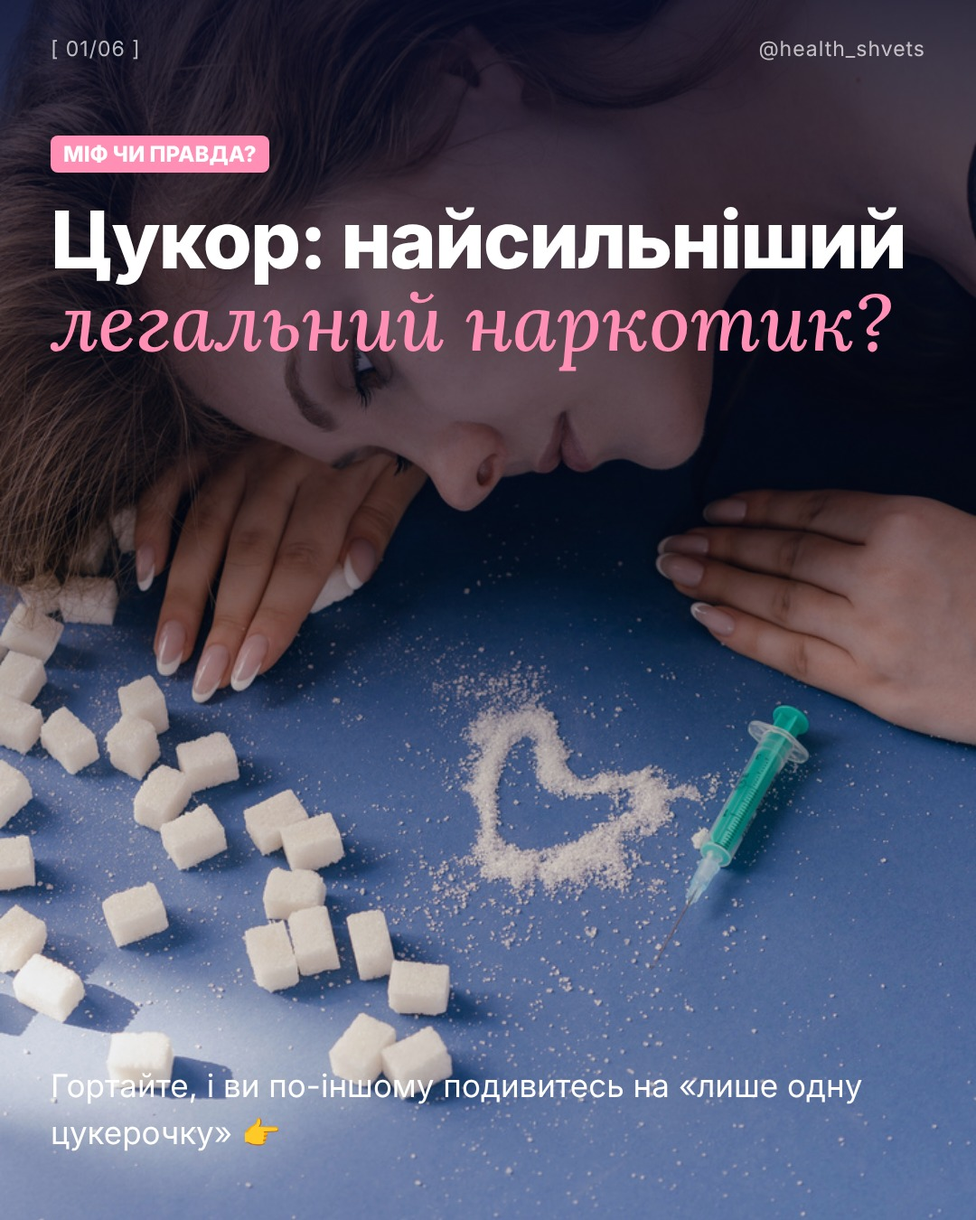
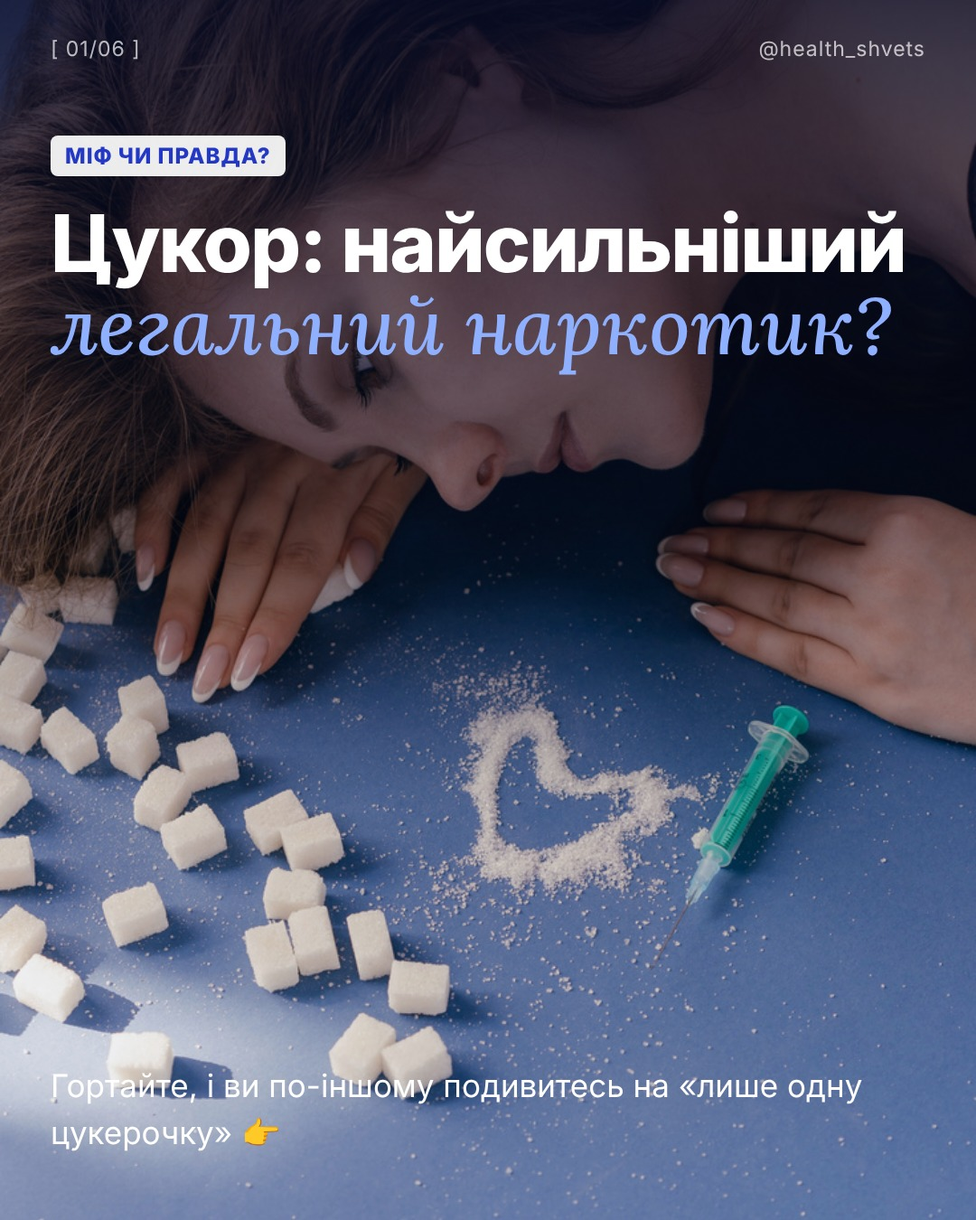
Січневий інтенсив: 350 до 30.11, 499 у грудні, 1748 з січня, без броні; каруселі грудня в кольорах Валентини
Claude-Session: https://claude.ai/code/session_01VzrYNc44ZAszRsGLiFGcPN

diff --git a/jan.py b/jan.py
@@ -22,7 +22,12 @@ import db
 
 log = logging.getLogger("jan")
 TZ = ZoneInfo("Europe/Kyiv")
-BOOK, EARLY, FULL, SEATS = 350, 750, C.INTENSIVE_AMOUNT, 20
+BOOK, EARLY, FULL, SEATS = 350, 750, C.INTENSIVE_AMOUNT, 20  # старі (бронь/750/1444), лишились для старих станів
+# 27.11 (Валентина): ціна участі в січневому інтенсиві без доплат: до 30.11 350, 1-31.12 499, з січня 1748
+P_NOV, P_DEC, P_AFTER = 350, 499, 1748
+NOV_END = datetime(2026, 11, 30, 23, 59, 59, tzinfo=TZ)
+DEC_END = datetime(2026, 12, 31, 23, 59, 59, tzinfo=TZ)
+PRICE_LINE = "Вартість участі: <code>350 грн</code> до 30 листопада, <code>499 грн</code> з 1 по 31 грудня <i>(з січня 1748 грн)</i>"
 ADV_BOOK = 159  # 26.11 (Валентина через Тетяну): бронь за спецціною для адвенту «Здорові свята», kind jba
 CONS_UNTIL = datetime(2026, 12, 31, 23, 59, tzinfo=TZ)  # 27.11: знижка 50% на все до 31.12 (Валентина)
 _BG = set()
@@ -30,10 +35,9 @@ _BG = set()
 # ---------- тексти ----------
 BTN_CONS = "📅 ЗАПИСАТИСЬ НА КОНСУЛЬТАЦІЮ"
 BTN_JAN = "🧠 Група на січень"
-BTN_BOOK = f"Забронювати місце: {BOOK} грн"
+BTN_BOOK = "Оплатити участь"
 CLOSED = ("<b>Увага: набір учасників інтенсиву на листопад закрито</b> ❗\n\n"
-          "Наразі йде <b>запис у групу на січень</b>. Вартість бронювання <code>350 грн</code>. "
-          "Повна вартість <b>для перших 20 учасників</b> <code>750 грн</code> 🔥")
+          "Наразі йде <b>запис у групу на січень</b>. " + PRICE_LINE + " 🔥")
 CONS_LINE = ("Якщо вам уже зараз потрібна допомога, можете записатись на <b>індивідуальну консультацію Валентини "
              "з 50% знижкою</b> <i>(до 31 грудня)</i> ‼")
 ANNOUNCE = CLOSED + "\n\n" + CONS_LINE
@@ -42,13 +46,10 @@ JAN_TERMS = ("<b>ГРУПА НА СІЧЕНЬ</b>\n\n"
              "‼ Спеціальний <b>Telegram-канал</b> із відео, гайдами, рецептами <b>з доступом назавжди</b>\n"
              "✓ Постійно діючий чат підтримки з авторкою та тренерами\n"
              "✓ Повноцінний курс + мініконсультації + супровід\n\n"
-             "Бронювання місця: <code>350 грн</code>\n"
-             "Повна вартість <b>для перших 20 учасників</b>: <code>750 грн</code> 🔥 <i>(далі 1444 грн)</i>")
-URGENT = "\n\n‼ <b>Ціна 750 грн тільки для перших 20 учасників.</b> <i>Кількість місць обмежена</i> ❗"
-PAY_CHOICE = ("<b>Як вам зручніше?</b>\n\n"
-              "<b>Забронювати місце:</b> <code>350 грн</code> зараз, решту доплатите ближче до старту\n"
-              "<b>Оплатити повністю:</b> <code>{full} грн</code>{note}\n\n"
-              "<i>У будь-якому разі ваше місце в групі на січень закріплюється одразу після оплати.</i>")
+             + PRICE_LINE)
+URGENT = "\n\n‼ <b>Ціна росте:</b> <i>350 грн тільки до 30 листопада, у грудні 499, з січня 1748</i> ❗"
+PAY_CHOICE = ("<b>Участь у групі на січень зараз коштує</b> <code>{full} грн</code> <i>(з січня 1748 грн)</i>. Без жодних доплат.\n\n"
+              "<i>Ваше місце закріплюється одразу після оплати.</i>")
 BOOKED = ("✅ <b>Місце в групі на січень заброньовано!</b> Дякую ❤\n\n"
           "Ваша повна вартість <code>{total} грн</code>, тобто доплатити лишається <code>{rest} грн</code>. "
           "Я нагадаю ближче до старту, а можна доплатити й зараз кнопкою нижче.\n\n"
@@ -127,13 +128,17 @@ def early():
     return taken() < SEATS
 
 
+def price_now():
+    n = now()
+    return P_NOV if n <= NOV_END else P_DEC if n <= DEC_END else P_AFTER
+
+
 def full_price():
-    return EARLY if early() else FULL
+    return price_now()
 
 
 def seats_line():
-    left = SEATS - taken()
-    return f"\n\n🔥 За ціною 750 грн лишилось місць: <b>{left}</b> з {SEATS}" if left > 0 else ""
+    return ""  # 27.11: місць за 750 більше немає, ціна залежить від дати
 
 
 def start_line():
@@ -149,9 +154,8 @@ def kb_cons_jan(extra=None):
 # ---------- показ ----------
 async def show_jan(ctx, chat, kb_back):
     __import__("crm").log_ev(chat, "jan")
-    await ctx.bot.send_message(chat, CLOSED + "\n\n" + start_line() + JAN_TERMS + seats_line(), parse_mode="HTML",
-                               reply_markup=M([[B(BTN_BOOK, callback_data="jn:book")],
-                                               [B(f"Оплатити повністю: {full_price()} грн", callback_data="jn:full")],
+    await ctx.bot.send_message(chat, CLOSED.split(" Вартість участі")[0] + "\n\n" + start_line() + JAN_TERMS, parse_mode="HTML",
+                               reply_markup=M([[B(f"Оплатити участь: {price_now()} грн", callback_data="jn:full")],
                                                [B(BTN_CONS, callback_data="cons")]] + kb_back))
 
 
@@ -167,17 +171,17 @@ async def show_cons(ctx, chat, kb_back):
 
 
 async def pay_choice(ctx, chat, kb_back):
-    fp = full_price()
-    note = " <i>(ціна для перших 20 учасників)</i>" if fp == EARLY else ""
-    await ctx.bot.send_message(chat, PAY_CHOICE.format(full=fp, note=note) + seats_line(), parse_mode="HTML",
-                               reply_markup=M([[B(BTN_BOOK, callback_data="jn:book")],
-                                               [B(f"Оплатити повністю: {fp} грн", callback_data="jn:full")],
+    fp = price_now()
+    await ctx.bot.send_message(chat, PAY_CHOICE.format(full=fp), parse_mode="HTML",
+                               reply_markup=M([[B(f"Оплатити участь: {fp} грн", callback_data="jn:full")],
                                                [B(BTN_CONS, callback_data="cons")]] + kb_back))
 
 
 # ---------- кнопки ----------
 async def on_cb(ctx, u, chat, data, make_invoice, notify_admins, who):
     st = db.flag_get(f"jan:{u.id}") or ""
+    if data == "jn:book":  # 27.11: броні більше немає, стара кнопка = оплата участі
+        data = "jn:full"
     if data == "jn:book":
         if st:
             await ctx.bot.send_message(chat, "Ваше місце в групі на січень уже закріплене ❤")
@@ -188,21 +192,23 @@ async def on_cb(ctx, u, chat, data, make_invoice, notify_admins, who):
         if st:
             await ctx.bot.send_message(chat, "Ваше місце в групі на січень уже закріплене ❤")
             return
-        await make_invoice(ctx, u, chat, "jba", ADV_BOOK, "Бронювання місця в групі на січень «Здоровий кишківник» (ціна адвенту)",
-                           "Ось посилання на бронювання за ціною адвенту 👇 Після оплати поверніться в цей чат, протягом хвилини я все підтверджу ❤")
+        await make_invoice(ctx, u, chat, "jba", ADV_BOOK, "Участь у групі на січень «Здоровий кишківник» (ціна адвенту)",
+                           "Ось посилання на оплату участі за ціною адвенту 👇 Після оплати поверніться в цей чат, протягом хвилини я все підтверджу ❤")
     elif data == "jn:full":
         if st == "f":
             await ctx.bot.send_message(chat, "Групу на січень у вас уже оплачено повністю ❤")
             return
-        if st.startswith("b"):
-            await _rest(ctx, u, chat, st, make_invoice)
+        if st.startswith("b"):  # 27.11: хто вже забронював, тепер учасник без доплати
+            db.flag_set(f"jan:{u.id}", "f")
+            await ctx.bot.send_message(chat, "Ваше місце в групі на січень уже оплачене, доплачувати нічого не потрібно ❤")
             return
         fp = full_price()
         await make_invoice(ctx, u, chat, f"jf{fp}", fp, "Група на січень «Здоровий кишківник»",
                            "Ось посилання на оплату 👇 Після оплати поверніться в цей чат, протягом хвилини я все підтверджу ❤")
     elif data == "jn:rest":
         if st.startswith("b"):
-            await _rest(ctx, u, chat, st, make_invoice)
+            db.flag_set(f"jan:{u.id}", "f")
+            await ctx.bot.send_message(chat, "Ваше місце в групі на січень уже оплачене, доплачувати нічого не потрібно ❤")
     elif data == "jn:cons":
         amt = cons_amount()
         if not amt:
@@ -229,6 +235,13 @@ async def on_paid(ctx, uid, kind, amount, cur, notify_admins):
     u = db.get_user(uid)
     name = (u["name"] if u else "") + (f" @{u['username']}" if u and u["username"] else "")
     crm = __import__("crm")
+    if kind == "jba":  # 27.11: участь за ціною адвенту 159, без доплати
+        db.flag_set(f"jan:{uid}", "f")
+        db.set_field(uid, "course_paid", 1)
+        crm.log_ev(uid, "paid", f"{amount}|січень (адвент)")
+        await _send(ctx, uid, PAID_FULL)
+        await notify_admins(ctx, f"✅ Група на січень за ціною адвенту: {amount} {cur}. {name} (ID {uid}).")
+        return True
     if kind in ("jb", "jba"):
         total = EARLY if early() else FULL
         book = ADV_BOOK if kind == "jba" else BOOK
@@ -247,7 +260,7 @@ async def on_paid(ctx, uid, kind, amount, cur, notify_admins):
         crm.log_ev(uid, "paid", f"{amount}|{'доплата' if kind == 'jr' else 'повністю'} січень")
         await _send(ctx, uid, PAID_FULL)
         await notify_admins(ctx, f"✅ Група на січень {'доплата' if kind == 'jr' else 'повністю'}: {amount} {cur}. {name} (ID {uid}). "
-                                 f"Зайнято місць: {taken()} з {SEATS} за 750.")
+                                 f"Усього учасників: {taken()}.")
         return True
     if kind == "cons":
         db.flag_set(f"cons:{uid}", "paid")

diff --git a/tools/posts2/plan2.py b/tools/posts2/plan2.py
@@ -22,9 +22,9 @@ def img(path):
 
 THEMES = {
     # синій Валентини (стиль «як в Ольги»: фото на весь слайд, курсив, плашки)
-    "blue": dict(bg="#f4f6ff", ink="#121a3d", acc="#2338c4", acc2="#ff8fb4", soft="#e4e8fb", dark="#141c5c"),
+    "blue": dict(bg="#f4f6ff", ink="#121a3d", acc="#2338c4", acc2="#8fb0ff", soft="#e4e8fb", dark="#141c5c"),
     # зелений адвенту
-    "green": dict(bg="#f2f8f3", ink="#0f3d2e", acc="#1d6b47", acc2="#e8457f", soft="#e3f3e8", dark="#0f3d2e"),
+    "green": dict(bg="#f2f8f3", ink="#0f3d2e", acc="#1d6b47", acc2="#8fdcb0", soft="#e3f3e8", dark="#0f3d2e"),
 }
 
 
@@ -42,9 +42,9 @@ h1{{font-size:88px;font-weight:800;line-height:1.02;letter-spacing:-2px}}
 h2{{font-size:64px;font-weight:800;line-height:1.06;letter-spacing:-1.2px}}
 i.s{{font-family:Lora;font-style:italic;font-weight:500;letter-spacing:0}}
 .ac{{color:{t['acc']}}} .ac2{{color:{t['acc2']}}}
-.hl{{background:linear-gradient(transparent 58%,{t['acc2']}88 58%);padding:0 4px}}
+.hl{{background:linear-gradient(transparent 58%,{t['acc']}33 58%);padding:0 4px}}
 .pl{{display:inline-block;background:{t['acc']};color:#fff;font-weight:800;font-size:24px;letter-spacing:1.5px;padding:9px 18px;border-radius:10px}}
-.pl2{{display:inline-block;background:{t['acc2']};color:#fff;font-weight:800;font-size:24px;padding:6px 14px;border-radius:8px}}
+.pl2{{display:inline-block;background:rgba(255,255,255,.92);color:{t['acc']};font-weight:800;font-size:24px;letter-spacing:1px;padding:8px 16px;border-radius:8px}}
 .p{{font-size:35px;line-height:1.48}}
 .p b{{font-weight:800}}
 .p+.p{{margin-top:22px}}
@@ -53,7 +53,12 @@ i.s{{font-family:Lora;font-style:italic;font-weight:500;letter-spacing:0}}
 .ph{{position:absolute;border-radius:30px;overflow:hidden;box-shadow:0 20px 50px rgba(15,20,60,.25)}}
 .ph img{{width:100%;height:100%;object-fit:cover}}
 .cta{{background:{t['dark']};color:#fff}}
-.word{{display:inline-block;background:#fff;color:{t['acc2']};font-weight:900;font-size:96px;letter-spacing:3px;padding:12px 48px;border-radius:24px}}
+.wq{{font-family:Lora;font-style:italic;font-weight:600;font-size:92px;line-height:1}}
+.wq u{{text-decoration:none;border-bottom:4px solid {t['acc2']};padding-bottom:6px}}
+.wf{{display:inline-block;position:relative;background:{t['acc2']};color:{t['dark']};font-weight:900;font-size:56px;letter-spacing:4px;
+  padding:14px 64px 14px 36px;clip-path:polygon(0 0,100% 0,88% 50%,100% 100%,0 100%)}}
+.wg{{font-weight:900;font-size:70px;letter-spacing:3px;text-shadow:0 0 28px {t['acc2']},0 0 10px {t['acc2']}}}
+.ws{{position:absolute;right:46px;top:50%;transform:translateY(-50%) rotate(90deg);transform-origin:center;font-weight:900;font-size:60px;letter-spacing:10px;color:{t['acc2']}}}
 .disc{{position:absolute;left:56px;right:56px;bottom:30px;font-size:19px;opacity:.7}}
 .big{{font-size:170px;font-weight:900;line-height:.9;color:{t['acc']}}}
 """
@@ -106,11 +111,11 @@ S1 = [
 </div>"""),
     page("blue", f"""{top(6, T, True)}
 <div style="position:absolute;left:70px;right:70px;top:180px">
-  <h2>Як вийти з цього кола <i class="s ac2">без зриву?</i></h2>
+  <h2>Як вийти з цього кола <i class="s">без&nbsp;зриву?</i></h2>
   <div class="p" style="margin-top:28px;color:#dfe4ff">У гайді <b style="color:#fff">«Як приборкати тягу до солодкого»</b> я розібрала 7 справжніх причин тяги, приховані цукри в продуктах і безпечні альтернативи смаколикам.</div>
   <div class="p" style="color:#dfe4ff">До 31 грудня <b style="color:#fff">310,5 грн</b> замість 621.</div>
-  <div class="p" style="margin-top:44px">Напишіть у коментарях</div>
-  <div style="margin-top:20px"><span class="word">ЦУКОР</span></div>
+  <div class="p" style="margin-top:50px">Напишіть у коментарях слово <span class="wq"><u>«Цукор»</u></span></div>
+  <div class="p" style="color:#dfe4ff">і я надішлю вам усе про гайд ❤</div>
 </div>""", "cta"),
 ]
 
@@ -132,7 +137,7 @@ S2 = [
 <div class="ph" style="left:56px;top:110px;width:520px;height:700px"><img src="{img('advent/prev/1_kalendar.jpg')}" style="object-position:top"></div>
 <div style="position:absolute;left:610px;right:56px;top:160px">
   <span class="pl">З 1 ГРУДНЯ</span>
-  <h2 style="margin-top:24px;font-size:56px">31 віконце <i class="s ac2">«Здорові свята»</i></h2>
+  <h2 style="margin-top:24px;font-size:56px">31 віконце <i class="s ac">«Здорові свята»</i></h2>
 </div>
 <div style="position:absolute;left:70px;right:70px;top:860px" class="p">Щоранку о 9:00 відкривається одне віконце: святковий рецепт з мого збірника <b>без цукру, глютену і лактози</b> або підказка, як пройти застілля без переїдання.</div>"""),
     page("green", f"""<div class="full"><img src="{img('advent/r/r14.jpg')}" style="object-position:center 35%"></div><div class="shade"></div>{top(4, T, True)}
@@ -143,7 +148,7 @@ S2 = [
     page("green", f"""{top(5, T)}
 <div class="ph" style="right:56px;bottom:90px;width:460px;height:690px"><img src="{img('g-049.jpg')}" style="object-position:top"></div>
 <div style="position:absolute;left:70px;width:500px;top:150px">
-  <h2>А на Святвечір <i class="s ac2">подарунок</i> 🎁</h2>
+  <h2>А на Святвечір <i class="s ac">подарунок</i> 🎁</h2>
   <div class="p" style="margin-top:28px">Моє <b>«Здорове меню на тиждень»</b>: сніданки, обіди, вечері і конструктор здорової тарілки, щоб після свят повернутись у ритм легко.</div>
   <div class="p" style="font-size:28px;margin-top:30px;opacity:.85">Валентина Швець, нутриціолог, 15+ років допомагаю сім'ям жити без харчових залежностей і хвороб</div>
 </div>"""),
@@ -151,7 +156,7 @@ S2 = [
 <div style="position:absolute;left:70px;right:70px;top:230px">
   <h2>Хочете такий грудень?</h2>
   <div class="p" style="margin-top:34px">Напишіть у коментарях</div>
-  <div style="margin-top:22px"><span class="word">АДВЕНТ</span></div>
+  <div style="margin-top:22px"><span class="wf">АДВЕНТ</span></div>
   <div class="p" style="margin-top:36px;color:#e3f3e8">і я надішлю вам календар. Перше віконце відкриється 1 грудня о 9:00 ❤</div>
 </div>""", "cta"),
 ]

diff --git a/dozhim_texts.py b/dozhim_texts.py
@@ -12,8 +12,8 @@ CB_MORE = "cons"
 TEXTS = {
     "d1a": ("Скажіть, що вас зараз турбує найбільше? Здуття після їжі, важкість, закрепи, висипання чи постійна втома? 🤔\n\n"
             "Напишіть мені кнопкою «Запитати», я прочитаю і підкажу, з чого почати саме вам ❤"),
-    "d1b": ("Набір на листопадовий інтенсив уже закрито ❗ Зараз іде <b>запис у групу на січень</b>: бронювання <code>350 грн</code>, "
-            "а повна вартість <b>для перших 20 учасників</b> лише <code>750 грн</code> 🔥\n\n"
+    "d1b": ("Набір на листопадовий інтенсив уже закрито ❗ Зараз іде <b>запис у групу на січень</b>: участь <code>350 грн</code> до 30 листопада, "
+            "<code>499 грн</code> у грудні, а з січня <code>1748 грн</code> 🔥\n\n"
             "<i>Наш кишківник недарма називають «другим мозком»</i> 🧠 Від нього залежать імунітет, енергія, гормони, шкіра і навіть настрій."),
     "d1c": ("Якщо чекати січня вам не хочеться, і допомога потрібна <b>вже зараз</b>, запишіться на мою "
             "<b>індивідуальну консультацію</b>. До 31 грудня вона <b>зі знижкою 50%</b> ‼\n\n"
@@ -26,20 +26,20 @@ TEXTS = {
             "✓ протоколи харчування, меню й рецепти;\n"
             "✓ чат підтримки зі мною і тренерами;\n"
             "✓ Telegram-канал з матеріалами <b>з доступом назавжди</b>.\n\n"
-            "Ціна <code>750 грн</code> діє тільки для перших 20 учасників, далі буде <code>1444 грн</code> 😉"),
+            "Зараз участь <code>350 грн</code> до 30.11, у грудні <code>499 грн</code>, з січня буде <code>1748 грн</code> 😉"),
     "d3a": ("Я не працюю з обіцянками швидких результатів за кілька днів. Здоров'я це системна робота над собою, "
             "і я поруч на кожному кроці ❤\n\n"
-            "Почати можна з консультації вже цього тижня або забронювати місце в січневій групі за <code>350 грн</code>."),
+            "Почати можна з консультації вже цього тижня або зайняти місце в січневій групі, поки ціна <code>350 грн</code> (до 30.11)."),
     "l1": "Нагадую: консультацію зараз можна взяти <b>зі знижкою 50%</b>, вона діє до 31 грудня ‼",
     "l2": ("Якщо давно відкладаєте турботу про свій кишківник «на потім», консультація це найпростіший перший крок: "
            "особисто розберемо вашу ситуацію і складемо план. <i>Знижка 50% діє до 31 грудня</i> 😉"),
     "l3": ("А ще з 1 грудня стартує мій адвент «Здорові свята»: щодня здоровий святковий рецепт. Приєднатися можна в меню ❤ "
-           "А в групу на січень можна записатися й далі, поки є місця за 750 грн ❤"),
+           "А в групу на січень можна записатися й далі ❤"),
 }
 MID = [
     ("Консультація підійде, якщо ви втомились від дискомфорту після їжі, закрепів чи діареї, тьмяної шкіри або постійної втоми "
      "і хочете зрозуміти причину вже зараз. <b>До 31 грудня зі знижкою 50%</b> 😉"),
-    ("Нагадую: у групу на січень можна <b>забронювати місце за 350 грн</b>, а повна вартість для перших 20 учасників "
-     "<code>750 грн</code> 🔥 Місця за цією ціною розбирають ❤"),
+    ("Нагадую: участь у групі на січень зараз <b>350 грн до 30 листопада</b>, у грудні 499, а з січня 1748 🔥 "
+     "Займіть місце, поки ціна найнижча ❤"),
     "Після інтенсиву з вами залишиться чіткий алгоритм дій для вашого ШКТ і канал з матеріалами з доступом назавжди.",
 ]

diff --git a/advent.py b/advent.py
@@ -45,7 +45,7 @@ APP_URL = "https://tafijcuktetana12-coder.github.io/agents/kyshkivnyk/advent/"  
 
 def app_btn(n=0):
     return B(BTN_APP, web_app=WebAppInfo(APP_URL + (f"?d={n}" if n else "")))
-BTN_BOOK = "🎄 Забронювати за 159 грн"
+BTN_BOOK = "🎄 Взяти участь за 159 грн"
 
 
 def _now():
@@ -197,7 +197,7 @@ async def preview_job(ctx):
             await ctx.bot.send_message(a, INVITE, parse_mode="HTML", reply_markup=M([[B(BTN_JOIN, callback_data="av:join")]]))
             await ctx.bot.send_message(
                 a, "👆 Так виглядатиме запрошення в адвент «Здорові свята» (31 віконце з вашого «Збірника рецептів на новорічні свята», "
-                   "24.12 сам файл у подарунок, 28.12 і 31.12 бронь інтенсиву за спецціною 159 замість 350). Посилання для Instagram: "
+                   "24.12 сам файл у подарунок, 28.12 і 31.12 участь в інтенсиві за спецціною 159 замість 499). Посилання для Instagram: "
                    "https://t.me/valentina_shvets_bot?start=advent\n\n"
                    "Розіслати запрошення всім в агенті?",
                 reply_markup=M([[B("✅ Розіслати", callback_data="av:go")]]))
@@ -247,7 +247,7 @@ VALYA = ("🎄 <b>Ваш адвент-календар «Здорові свят
          "31 віконце з вашого «Збірника рецептів на новорічні свята»: рецепти і поради перед застіллям. З <b>1 по 31 грудня</b> щоранку о 9:00 агент сам надсилатиме людям віконце дня, "
          "а ще в кожного є зелений календар з кульками, де віконця відкриваються по датах.\n\n"
          "🎁 <b>24 грудня</b> файл «Здорове меню на тиждень» у подарунок\n"
-         "🎄 <b>28 і 31 грудня</b> бронь інтенсиву «Здоровий кишківник» за спецціною <code>159 грн</code> (для всіх інших 350)\n\n"
+         "🎄 <b>28 і 31 грудня</b> участь в інтенсиві «Здоровий кишківник» за спецціною <code>159 грн</code> (для всіх інших 499 у грудні)\n\n"
          "🔗 <b>Посилання, за яким запускається адвент</b> (для Instagram, сторіс, каналу, ManyChat):\n"
          "<code>https://t.me/valentina_shvets_bot?start=advent</code>\n\n"
          "У меню агента зверху тепер кнопка <b>«🎄 АДВЕНТ-КАЛЕНДАР «ЗДОРОВІ СВЯТА»»</b>.\n\n"

diff --git a/advent_data.py b/advent_data.py
@@ -84,8 +84,8 @@ W = [
     ("", "Запрошую вас у січень",
      "Свята добігають кінця, і я знаю, що в січні багатьом захочеться <b>розвантажити організм, повернути легкість і привести до ладу травлення</b>.\n\n"
      "Саме для цього мій інтенсив <b>«Здоровий кишківник»</b>, група стартує в січні.\n\n"
-     "Для вас, хто відкривав мій адвент, бронь місця всього <code>159 грн</code> замість 350. Це спеціальна ціна тільки тут, в адвенті.\n\n"
-     "<i>Хочете почати рік з легкістю? Забронюйте місце, поки діє ціна адвенту</i> 👇", "book"),
+     "Для вас, хто відкривав мій адвент, участь всього <code>159 грн</code> замість 499. Це спеціальна ціна тільки тут, в адвенті.\n\n"
+     "<i>Хочете почати рік з легкістю? Займіть місце, поки діє ціна адвенту</i> 👇", "book"),
     R("r16", "Салат з авокадо",
       "Яйця, червона риба, огірок і авокадо з заправкою з йогурту і гірчиці. <b>Гарно викласти через стакан і прикрасити ікрою</b> 😉"),
     R("r54", "Тортик «Серпантин»",
@@ -93,7 +93,7 @@ W = [
     ("r/r55", "🎄 З Новим роком!",
      "Ось і останнє віконце. Дякую, що були зі мною цілий грудень ❤\n\n"
      "Бажаю вам у новому році <b>легкості, енергії і здоров'я</b>, яке починається з тарілки.\n\n"
-     "Сьогодні останній день, коли бронь на інтенсив <b>«Здоровий кишківник»</b> коштує <code>159 грн</code> замість 350. "
-     "Якщо хочете в січні розвантажитись після свят разом зі мною, забронюйте місце 👇", "book"),
+     "Сьогодні останній день, коли участь в інтенсиві <b>«Здоровий кишківник»</b> коштує <code>159 грн</code> замість 499. "
+     "Якщо хочете в січні розвантажитись після свят разом зі мною, займіть місце 👇", "book"),
 ]
 assert len(W) == 31, len(W)

diff --git a/quiz.py b/quiz.py
@@ -79,8 +79,7 @@ RES = {
 OFFER = ("<b>Що робити далі?</b>\n\n"  # 19.11: нова стратегія (jan.py)
          "Якщо допомога потрібна <b>вже зараз</b>, запишіться на <b>індивідуальну консультацію</b> зі знижкою 50% "
          "<i>(до 31 грудня)</i>: Валентина особисто розбере вашу ситуацію.\n\n"
-         f"А на інтенсив <b>«{C.INTENSIVE_NAME}»</b> зараз іде <b>запис у групу на січень</b>: бронювання <code>350 грн</code>, "
-         "повна вартість <code>750 грн</code> для перших 20 учасників 🔥\n\n"
+         f"А на інтенсив <b>«{C.INTENSIVE_NAME}»</b> зараз іде <b>запис у групу на січень</b>. Вартість участі: <code>350 грн</code> до 30 листопада, <code>499 грн</code> з 1 по 31 грудня <i>(з січня 1748 грн)</i> 🔥\n\n"
          "<i>Ви отримаєте чіткий план відновлення саме для вашої ситуації.</i>")
 DISCLAIMER = "<i>Діагностика має інформаційний характер і не замінює консультації лікаря чи нутриціолога.</i>"
 ZONE_NAMES = {"zakrep": "закрепи", "meteo": "здуття/мікробіом", "skin": "шкіра/енергія", "nerv": "стрес/СРК", "ok": "все добре"}

diff --git a/texts.py b/texts.py
@@ -112,7 +112,7 @@ SITE_OFFER = ("<b>Коротко нагадаю:</b>\n"
               f"✓ набір на листопад закрито, іде <b>запис у групу на січень</b>, <b>{C.INTENSIVE_LENGTH}</b>\n"
               "✓ Telegram-канал з відео, гайдами і рецептами <b>з доступом назавжди</b>\n"
               "✓ чат підтримки з Валентиною і тренерами\n"
-              "✓ бронювання <code>350 грн</code>, повна вартість <code>750 грн</code> <b>для перших 20 учасників</b> 🔥\n\n"
+              "✓ участь: <code>350 грн</code> до 30 листопада, <code>499 грн</code> з 1 по 31 грудня <i>(з січня 1748 грн)</i> 🔥\n\n"
               "<i>Місце закріплюється одразу після оплати. Якщо є питання, напишіть Валентині 👇</i>")
 ACCESS_ASK = "\n\nЯкщо виникнуть питання, натисніть «Поставити питання» ❤"
 BTN_HOME = "🏠 Меню"

diff --git a/changelog.py b/changelog.py
@@ -10,9 +10,12 @@ import db
 
 log = logging.getLogger("changelog")
 
-VERSION = "2026-11-27-cukor"
+VERSION = "2026-11-27-jan1748"
 NOTES = [
     "Фразу <i>«не замінює консультації»</i> прибрано всюди: в агенті, адвенті, на сайті й в описах каруселей",
+    "<b>Інтенсив «Здоровий кишківник» у січні:</b> участь <code>350 грн</code> до 30.11, <code>499 грн</code> з 1 по 31.12, з січня <code>1748 грн</code>. "
+    "Без броні й доплат. Рядки «750 для перших 20» і «далі 1444» прибрано. Хто вже забронював за 350, вважається учасником без доплати. "
+    "В адвенті 28 і 31.12 участь за <code>159 грн</code>",
     "Для кодового слова <b>ЦУКОР</b> (гайд про солодке): <code>https://t.me/valentina_shvets_bot?start=cukor</code>",
 ]
 

diff --git a/CLAUDE.md b/CLAUDE.md
@@ -107,3 +107,5 @@
 - instaposts: кишківник перенесено на січень (k20 5.01, k16 7.01, k14 9.01, k13 11.01, k15 13.01; ПЕРЕД січнем оновити описи, там «до кінця листопада»), k21 вимкнено. Нові каруселі на грудень зібрано, але НЕ поставлено (чекають «+» Тетяни): a1, a2 (адвент, слово АДВЕНТ), p1 (що можна за пів ціни), p2 (солодке, стиль Ольги Ейдель у кольорах Валентини), p3 (аналізи), збирачі tools/posts2/advposts.py і plan1.py. Слово 44 у p1-p3 замінити на КОНСУЛЬТАЦІЯ / ГАЙД? / АНАЛІЗИ за словом Тетяни.
 - Звіт Валентині: changelog VERSION 2026-11-27-promo50; посилання кодових слів окремим повідомленням links2711.job (flag links2711).
 - План адвенту (ще не зроблено, чекає «збирай»): фото Валентини в 1-му віконці і кружечок з фото на рецептах, кнопка консультації під віконцями, 6.12 Миколай подарунок, 7-8.12 і 25-26.12 консультація −75% (1125 грн), 25.12 привітання з Різдвом; контент в адвент до 5.12 «стартує», 5-15.12 «уже йде, встигаєте».
+- 27.11 ~12:00 (слово Валентини): січневий інтенсив без броні: jan.price_now() 350 до 30.11, 499 1-31.12, далі 1748 (P_NOV/P_DEC/P_AFTER), кнопка «Оплатити участь» (jn:full, kind jf<ціна>; jn:book → jn:full). Старі стани b* = учасник без доплати (jn:full/jn:rest ставлять f). jba (адвент 159) = повна участь. Тексти jan/texts/quiz/dozhim/advent без «750 для перших 20» і «1444». Фраза «не замінює консультації» прибрана всюди (агент, адвент, сайт docs і agents/kyshkivnyk, описи instaposts). Слово ЦУКОР → ?start=cukor (гайд).
+- Каруселі грудня, новий дизайн (tools/posts2/plan2.py, фото з гайду в tools/posts2/stock/ g-*.jpg + Валентина): d28a «Цукор: легальний наркотик?» (ЦУКОР), d28b адвент (АДВЕНТ). Кольори тільки зелений або синій, без рожевого; кодові слова щоразу в іншому стилі (wq лапки, wf флажок, wg підсвітка, ws збоку). НЕ поставлено в instaposts, чекає «+».
